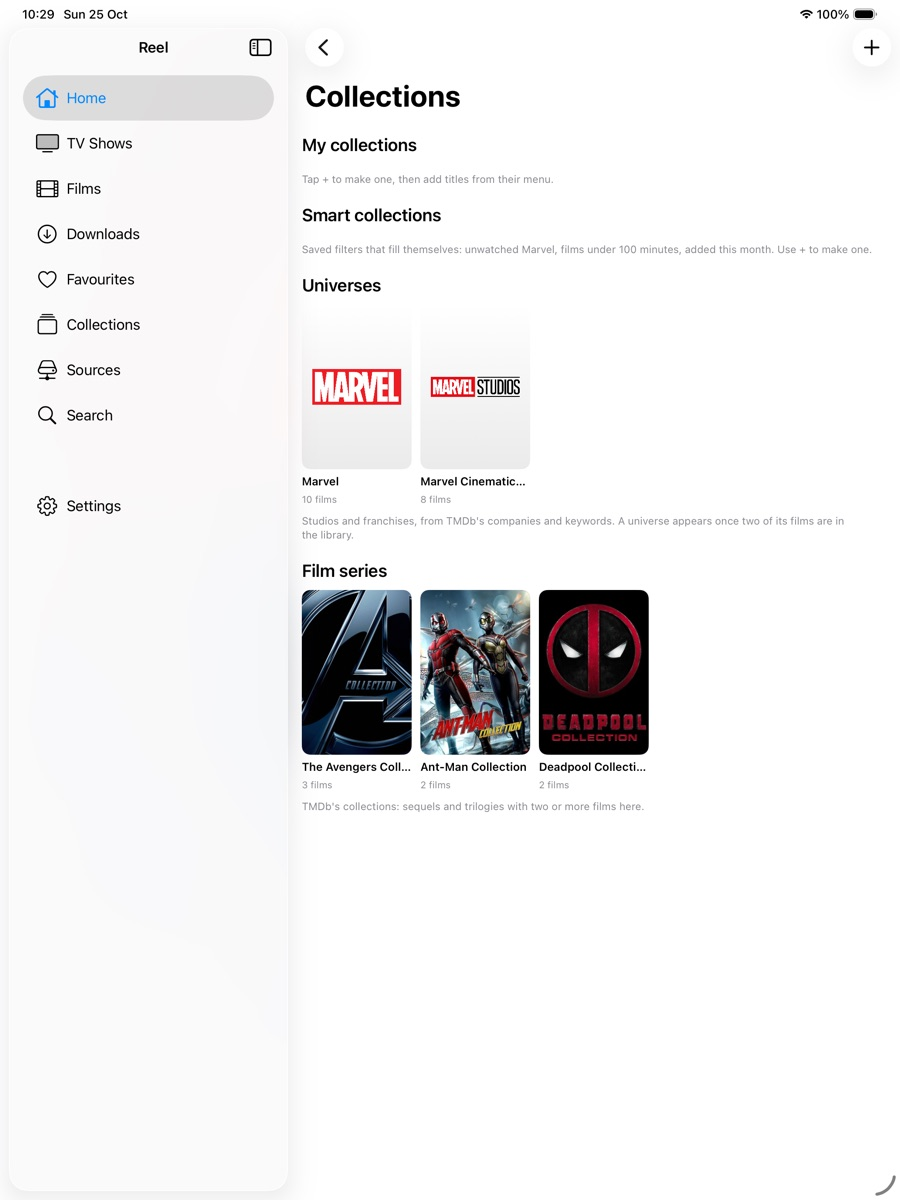
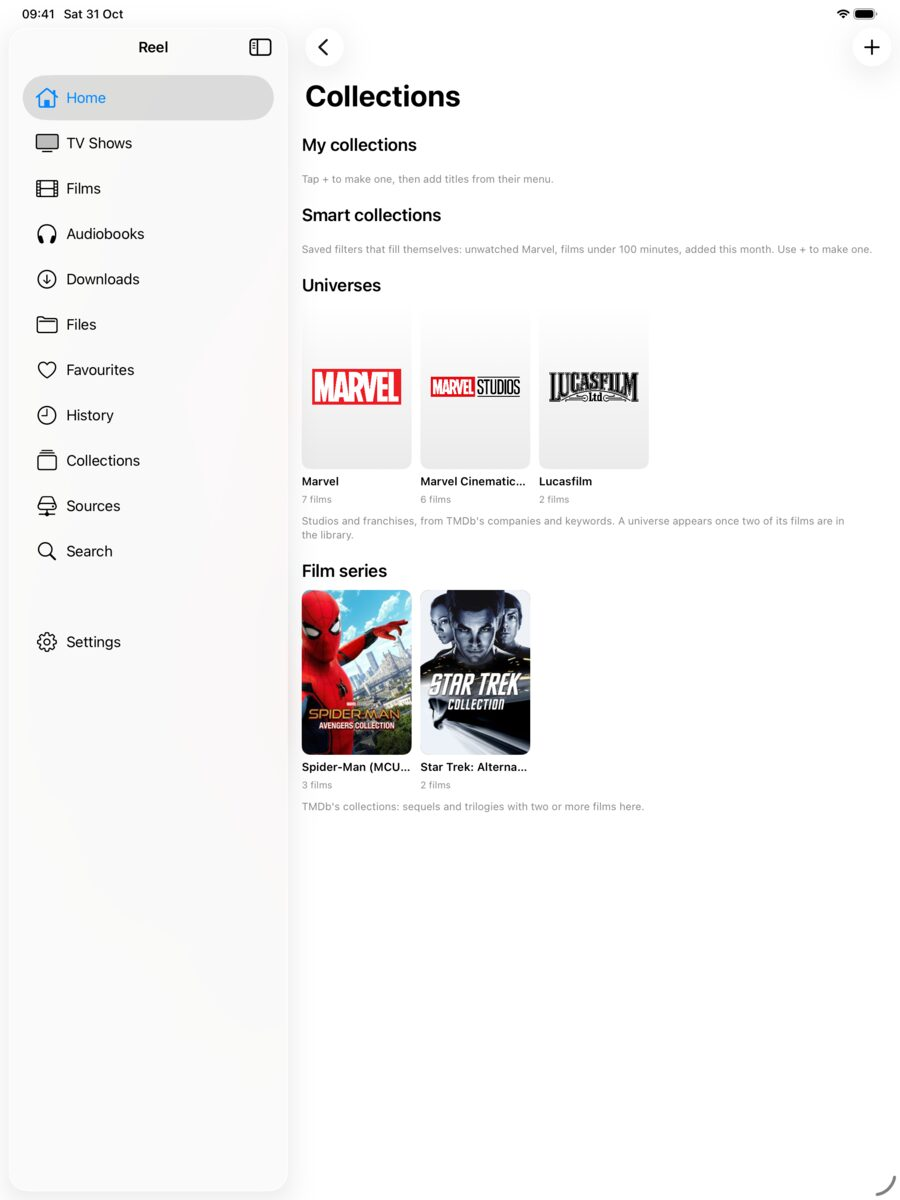
New iPad screenshots from a stand-in corpus; books in author folders lose the folder as series; parts borrow the book cover
The old WebDAV test library is gone, so the shots come from ffmpeg clips named
like real titles and tagged .m4b files served by wsgidav, with the debug
addsource link now taking folder tags. Twelve pages for the site, the raw set,
and the framed App Store set with an audiobooks shot added.

Found on the way: a single-file book in a folder named for its author was filed
under a series of that name, which kept Audible's series out; a part of a book
had no cover on Home or in History; History said S01E01 for a book.

diff --git a/docs/index.html b/docs/index.html
@@ -16,9 +16,9 @@
   <div class="card"><h3>Offline</h3><p>Download episodes or films to the device for the flight.</p></div>
 </div>
 <h2>Screenshots</h2>
-<p class="muted">The library shown is a sample of a real NAS, matched and decorated by Reel. Tap any picture for full size.</p>
+<p class="muted">A sample library, matched and decorated by Reel. Tap any picture for full size.</p>
 <div class="gallery">
-  <a href="screenshots/ipad-01-home.jpg"><img src="screenshots/ipad-01-home.jpg" alt="Home on iPad: Continue Watching, Recently Added and Unwatched Films rows with posters"></a>
+  <a href="screenshots/ipad-01-home.jpg"><img src="screenshots/ipad-01-home.jpg" alt="Home on iPad: Continue Watching, Next Up, Favourites and Recently Added rows with posters"></a>
   <a href="screenshots/ipad-02-tv.jpg"><img src="screenshots/ipad-02-tv.jpg" alt="TV Shows grid on iPad with unwatched counts"></a>
   <a href="screenshots/ipad-04-show.jpg"><img src="screenshots/ipad-04-show.jpg" alt="A show page: backdrop, logo, cast and the episode list"></a>
   <a href="screenshots/ipad-05-film.jpg"><img src="screenshots/ipad-05-film.jpg" alt="A film page with cast, the film's collection and the universes it belongs to"></a>
@@ -26,6 +26,10 @@
   <a href="screenshots/ipad-07-player.jpg"><img src="screenshots/ipad-07-player.jpg" alt="The player with its controls"></a>
   <a href="screenshots/ipad-08-anime.jpg"><img src="screenshots/ipad-08-anime.jpg" alt="An anime show page with seasons matched through AniDB"></a>
   <a href="screenshots/ipad-03-films.jpg"><img src="screenshots/ipad-03-films.jpg" alt="Films grid on iPad with filters"></a>
+  <a href="screenshots/ipad-09-audiobooks.jpg"><img src="screenshots/ipad-09-audiobooks.jpg" alt="Audiobooks grouped by author and series, with covers and progress"></a>
+  <a href="screenshots/ipad-10-book.jpg"><img src="screenshots/ipad-10-book.jpg" alt="A book page: cover, narrators, series, summary and where to resume"></a>
+  <a href="screenshots/ipad-11-search.jpg"><img src="screenshots/ipad-11-search.jpg" alt="Search finding films and books in one go"></a>
+  <a href="screenshots/ipad-12-history.jpg"><img src="screenshots/ipad-12-history.jpg" alt="History: everything played, how far, and when"></a>
 </div>
 <div class="gallery phones">
   <a href="screenshots/iphone-01-home.jpg"><img src="screenshots/iphone-01-home.jpg" alt="Home on iPhone"></a>

diff --git a/Packages/ReelKit/Sources/Library/LibraryStore+Audiobooks.swift b/Packages/ReelKit/Sources/Library/LibraryStore+Audiobooks.swift
@@ -33,6 +33,7 @@ extension LibraryStore {
             if let s = parsed.series { book.seriesName = s; book.seriesIndex = parsed.seriesIndex ?? book.seriesIndex }
         }
         if let author, !author.isEmpty { book.author = author }
+        Self.dropSeriesNamedAfterAuthor(book)
         if let narrator, !narrator.isEmpty { book.narrator = narrator }
         if let year, book.year == nil { book.year = year }
         if let cover, !cover.isEmpty {
@@ -65,11 +66,19 @@ extension LibraryStore {
 
     /// What a catalogue said about a book. Chosen by hand it replaces everything; taken on the
     /// names it fills what the files did not say, and the names' title and author stand when the
+    /// A single-file book in a folder named for its author ("Books/Terry Pratchett/Mort.m4b") is
+    /// filed by the folder parser under a series of that name. The author is not a series.
+    nonisolated static func dropSeriesNamedAfterAuthor(_ book: MediaItem) {
+        guard let s = book.seriesName, let a = book.author, MediaItem.makeSortTitle(s) == MediaItem.makeSortTitle(a) else { return }
+        book.seriesName = nil; book.seriesIndex = nil
+    }
+
     /// tags gave them (the tags are the edition on disk; the catalogue may be another).
     public func applyBookLookup(_ book: MediaItem, hit given: AudiobookHit, manual: Bool) {
         // Of the series the catalogue lists, the one this library already shelves the author's
         // other books under (or the tags named), else the parent series.
         var hit = given
+        Self.dropSeriesNamedAfterAuthor(book)
         let known = [book.seriesName].compactMap { $0 } + items(kind: .audiobook).filter { $0 !== book && $0.author == book.author }.compactMap(\.seriesName)
         hit.chooseSeries(known: known)
         let trust = manual || !book.tagsRead

diff --git a/Reel/App/AppNavigation.swift b/Reel/App/AppNavigation.swift
@@ -52,7 +52,7 @@ final class AppNavigation: ObservableObject {
 ///   reel://stop   (closes the player)
 ///   reel://scan
 ///   reel://demo
-///   reel://addsource?type=webdav&host=…&port=…&path=…&name=…&tls=0   (Debug builds only)
+///   reel://addsource?type=webdav&host=…&port=…&path=…&name=…&tls=0&tags=Films:films,TV:tv   (Debug builds only)
 enum DeepLinks {
     @MainActor
     static func handle(_ url: URL, nav: AppNavigation, library: LibraryStore, player: PlayerCoordinator, settings: AppSettings) -> Bool {
@@ -133,8 +133,14 @@ enum DeepLinks {
             if q["via"] == "vlc" { SourceFactory.preferVLCForFTP = true }
             let config = SourceConfig(name: q["name"] ?? host, type: type, host: host, port: q["port"].flatMap(Int.init), path: q["path"] ?? "", useTLS: q["tls"] != "0")
             let creds = q["user"].map { Credentials(username: $0, password: q["pass"] ?? "") }
+            // tags=Films:films,TV:tv,Books:audiobooks tags folders as the Sources screen would.
+            let rules: [(String, FolderTag)] = (q["tags"] ?? "").split(separator: ",").compactMap { pair in
+                let parts = pair.split(separator: ":", maxSplits: 1).map(String.init)
+                guard parts.count == 2, let tag = FolderTag(rawValue: parts[1]) else { return nil }
+                return (parts[0], tag)
+            }
             do {
-                let record = try library.addSource(config, credentials: creds, folderRules: [])
+                let record = try library.addSource(config, credentials: creds, folderRules: rules)
                 library.scan(record, providers: settings.providers)
                 Diagnostics.log("app", "debug link added source \(config.name)")
             } catch {

diff --git a/Reel/Views/Components/MediaItem+Artwork.swift b/Reel/Views/Components/MediaItem+Artwork.swift
@@ -5,8 +5,11 @@ import Metadata
 /// Where each piece of an item's artwork comes from: the user's pick in Edit artwork first, else the
 /// automatic choice (TMDb, or fanart.tv for logos and backdrops when TMDb has none).
 extension MediaItem {
-    var posterURL: URL? { posterOverrideURL.flatMap(Self.artworkURL) ?? LibraryStore.coverURL(self) ?? ArtworkURL.poster(posterPath) }
-    func posterURL(size: ArtworkURL.PosterSize) -> URL? { posterOverrideURL.flatMap(Self.artworkURL) ?? LibraryStore.coverURL(self) ?? ArtworkURL.poster(posterPath, size: size) }
+    var posterURL: URL? { posterOverride.flatMap(Self.artworkURL) ?? LibraryStore.coverURL(self) ?? ArtworkURL.poster(posterPath) }
+    func posterURL(size: ArtworkURL.PosterSize) -> URL? { posterOverride.flatMap(Self.artworkURL) ?? LibraryStore.coverURL(self) ?? ArtworkURL.poster(posterPath, size: size) }
+    /// A part of a book has no artwork of its own: the book's chosen cover (Audible's, or the
+    /// listener's pick) stands for it, as the embedded cover already does.
+    private var posterOverride: String? { posterOverrideURL ?? (isAudiobookPart ? show?.posterOverrideURL : nil) }
     var backdropURL: URL? { backdropOverrideURL.flatMap(Self.artworkURL) ?? ArtworkURL.backdrop(backdropPath) ?? extraBackdropURL.flatMap(URL.init) }
     func backdropURL(size: ArtworkURL.BackdropSize) -> URL? { backdropOverrideURL.flatMap(Self.artworkURL) ?? ArtworkURL.backdrop(backdropPath, size: size) ?? extraBackdropURL.flatMap(URL.init) }
     var stillURL: URL? { stillPath.flatMap { $0.hasPrefix("demo://") ? Self.artworkURL($0) : nil } ?? ArtworkURL.still(stillPath) }

diff --git a/Reel/Views/Settings/SettingsView.swift b/Reel/Views/Settings/SettingsView.swift
@@ -159,7 +159,9 @@ struct HistoryView: View {
                             VStack(alignment: .leading, spacing: 2) {
                                 Text(item.kind == .episode ? (item.show?.title ?? item.title) : item.title).font(.subheadline.weight(.semibold))
                                 if item.kind == .episode, !item.isAudiobookPart { Text(item.title).font(.caption).foregroundStyle(.secondary).lineLimit(1) }
-                                Text([item.episodeCode, Self.progressLabel(ws), ws.lastPlayedAt?.formatted(.relative(presentation: .named))].compactMap { $0 }.joined(separator: " · ")).font(.caption).foregroundStyle(.secondary)
+                                // A part of a book is "Part 3", an episode its code.
+                                let where_ = item.isAudiobookPart ? item.episodeNumber.map { "Part \($0)" } : item.episodeCode
+                                Text([where_, Self.progressLabel(ws), ws.lastPlayedAt?.formatted(.relative(presentation: .named))].compactMap { $0 }.joined(separator: " · ")).font(.caption).foregroundStyle(.secondary)
                             }
                         }
                     }

diff --git a/Packages/ReelKit/Tests/LibraryTests/LibraryStoreTests.swift b/Packages/ReelKit/Tests/LibraryTests/LibraryStoreTests.swift
@@ -123,6 +123,17 @@ final class LibraryStoreTests: XCTestCase {
         XCTAssertEqual(thud.seriesName, "Discworld"); XCTAssertEqual(thud.seriesIndex, 34)
     }
 
+    func testAFolderNamedForTheAuthorIsNotASeries() throws {
+        // The folder parser files "Books/Terry Pratchett/Mort.m4b" under a series "Terry Pratchett".
+        let mort = book("Mort", author: nil, series: "Terry Pratchett")
+        store.applyBookTags(mort, title: "Mort", author: "Terry Pratchett", narrator: nil, year: nil, cover: nil)
+        XCTAssertNil(mort.seriesName, "the tags name the author, so the folder was not a series")
+        var hit = AudiobookHit(source: "Audible", asin: "B3", title: "Mort", authors: ["Terry Pratchett"])
+        hit.allSeries = [.init(name: "Discworld", position: "4")]; hit.chooseSeries(known: [])
+        store.applyBookLookup(mort, hit: hit, manual: false)
+        XCTAssertEqual(mort.seriesName, "Discworld"); XCTAssertEqual(mort.seriesIndex, 4)
+    }
+
     func testSmartCollectionsAreCollectionsWithRulesKeptApart() throws {
         store.addCollection(named: "Marvel")
         let id = UUID()

diff --git a/Packages/ReelKit/Sources/Library/LibraryScanner.swift b/Packages/ReelKit/Sources/Library/LibraryScanner.swift
@@ -302,6 +302,7 @@ public actor LibraryScanner {
             }
             // Tags trump names: once read, the names only fill what the tags left empty.
             if !book.tagsRead || book.seriesName == nil { book.seriesName = b.series ?? book.seriesName; book.seriesIndex = b.seriesIndex ?? book.seriesIndex }
+            LibraryStore.dropSeriesNamedAfterAuthor(book)
             if book.year == nil { book.year = b.year }
             book.pendingSync = true; book.updatedAt = Date()
             for (i, part) in b.parts.enumerated() {

diff --git a/HANDOVER.md b/HANDOVER.md
@@ -485,3 +485,27 @@ chosen edition in full. New item fields `asin` and `bookLookup` sync.
 - **Settings** is a short top level (Library, Preferences, iCloud, Storage, About, Reset) with pages
   in `Settings/SettingsPages.swift`: Metadata, Playback, Subtitles, Scanning.
 - Still per device: nothing of note. Widgets still wait on the App Group entitlement (Developer portal).
+
+## Screenshots (31 Oct 2026)
+
+The iPad set in `docs/screenshots`, `docs/app-store/screenshots/raw` and the framed `ipad-13` set
+were retaken on the iPad Pro 13-inch simulator (light mode, status bar overridden to 9:41). The
+library is a stand-in corpus, since the old WebDAV test library is gone: ffmpeg clips from the
+demo backdrops named like real films and episodes, and tiny tagged `.m4b` files for the books, in
+a scratchpad folder served by wsgidav on 127.0.0.1:8080 without a password. The scanner reads only
+names, TMDb and Audible supply the rest. Steps:
+
+1. `reel://addsource?type=webdav&host=127.0.0.1&port=8080&path=/&name=Media&tls=0&tags=Films:films,TV:tv,Books:audiobooks`
+   written to `Documents/command.txt` (Debug builds). The new `tags` parameter sets folder rules.
+2. Watch states, favourites and plausible file sizes, lengths and codecs are written straight
+   into `Reel.store` with sqlite while the app is terminated (a hand-written collection row crashed
+   the app: SwiftData's encoding of `itemKeys` is not JSON, so collections stay empty).
+3. `reel://open/<section>` and `reel://item?title=` drive the pages; `xcrun simctl io screenshot`.
+   The player: `reel://play?title=Firefly` on a ten-minute `gradients` clip, one tap for controls.
+4. `Scripts/app-store-screenshot.sh` frames the raw PNGs with the captions on the old set, plus
+   "Audiobooks, by author and series".
+
+Two bugs the shots found and fixed: a single-file book in an author-named folder took the author
+as its series (`LibraryStore.dropSeriesNamedAfterAuthor`, applied by tags, lookup and the scanner),
+and a part of a book had no cover on Home or in History (the part now borrows the book's chosen
+cover). History says "Part 1" for a book, not "S01E01".
